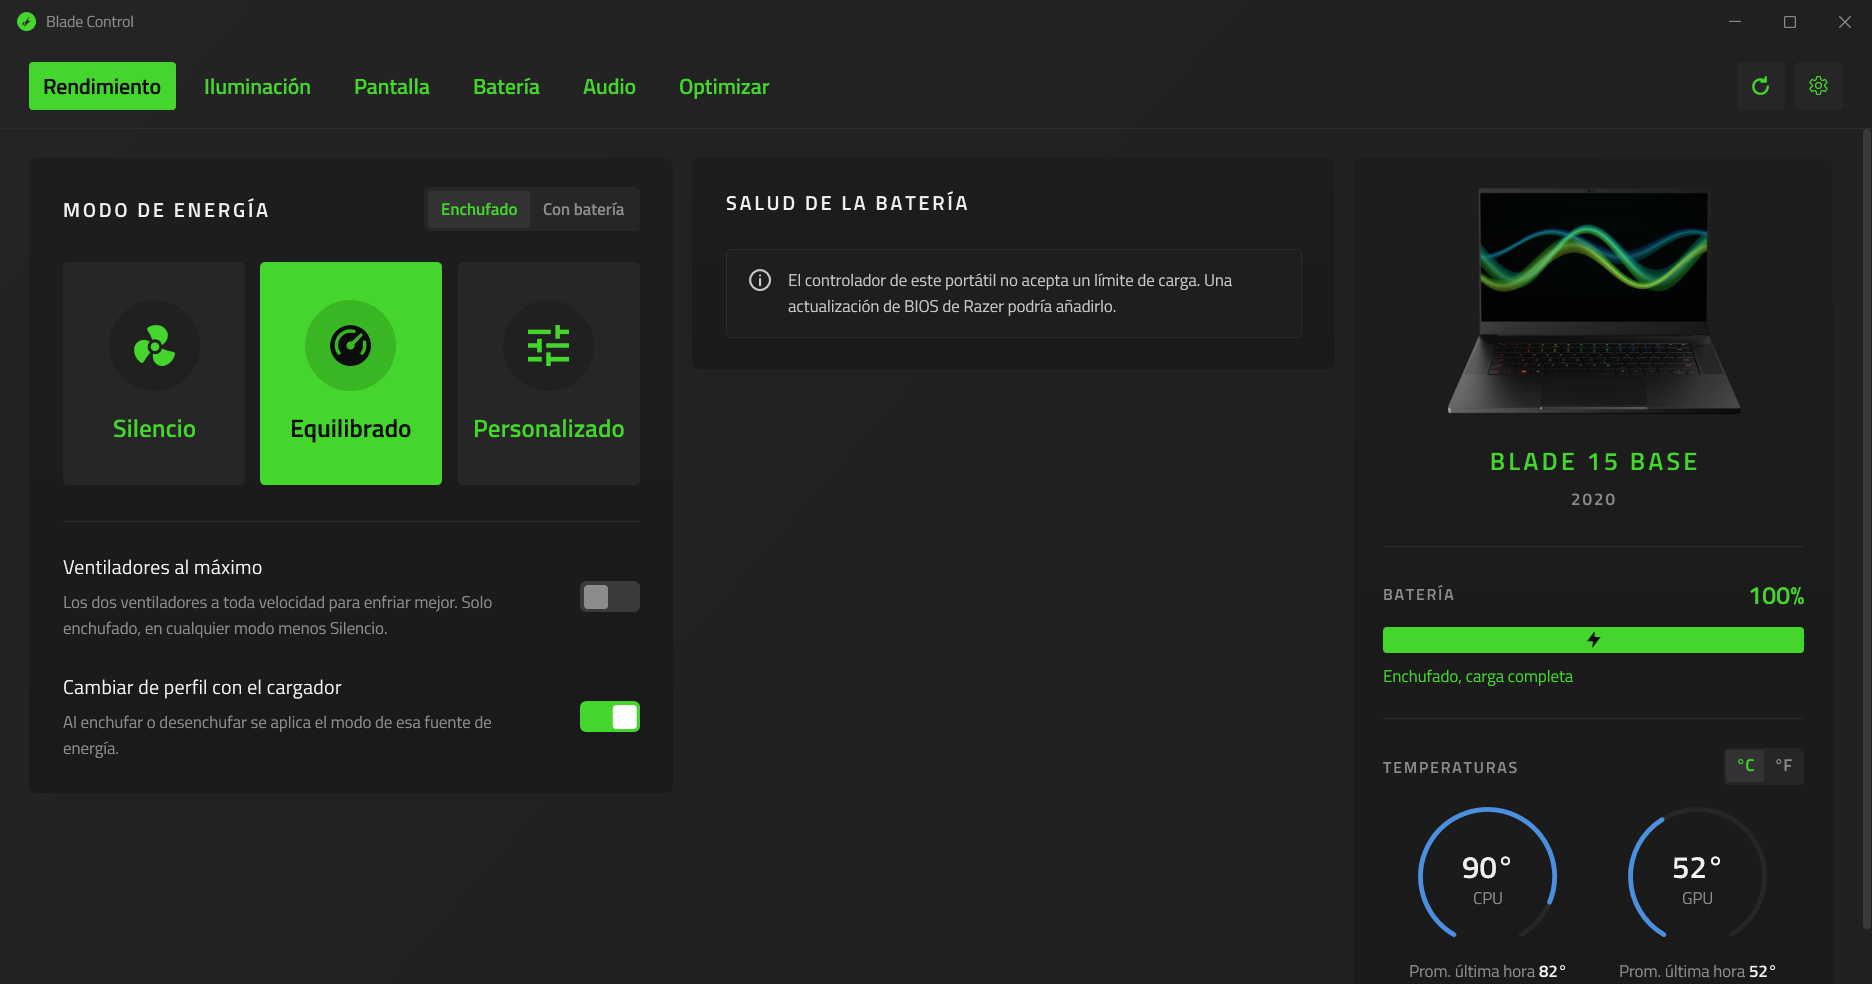
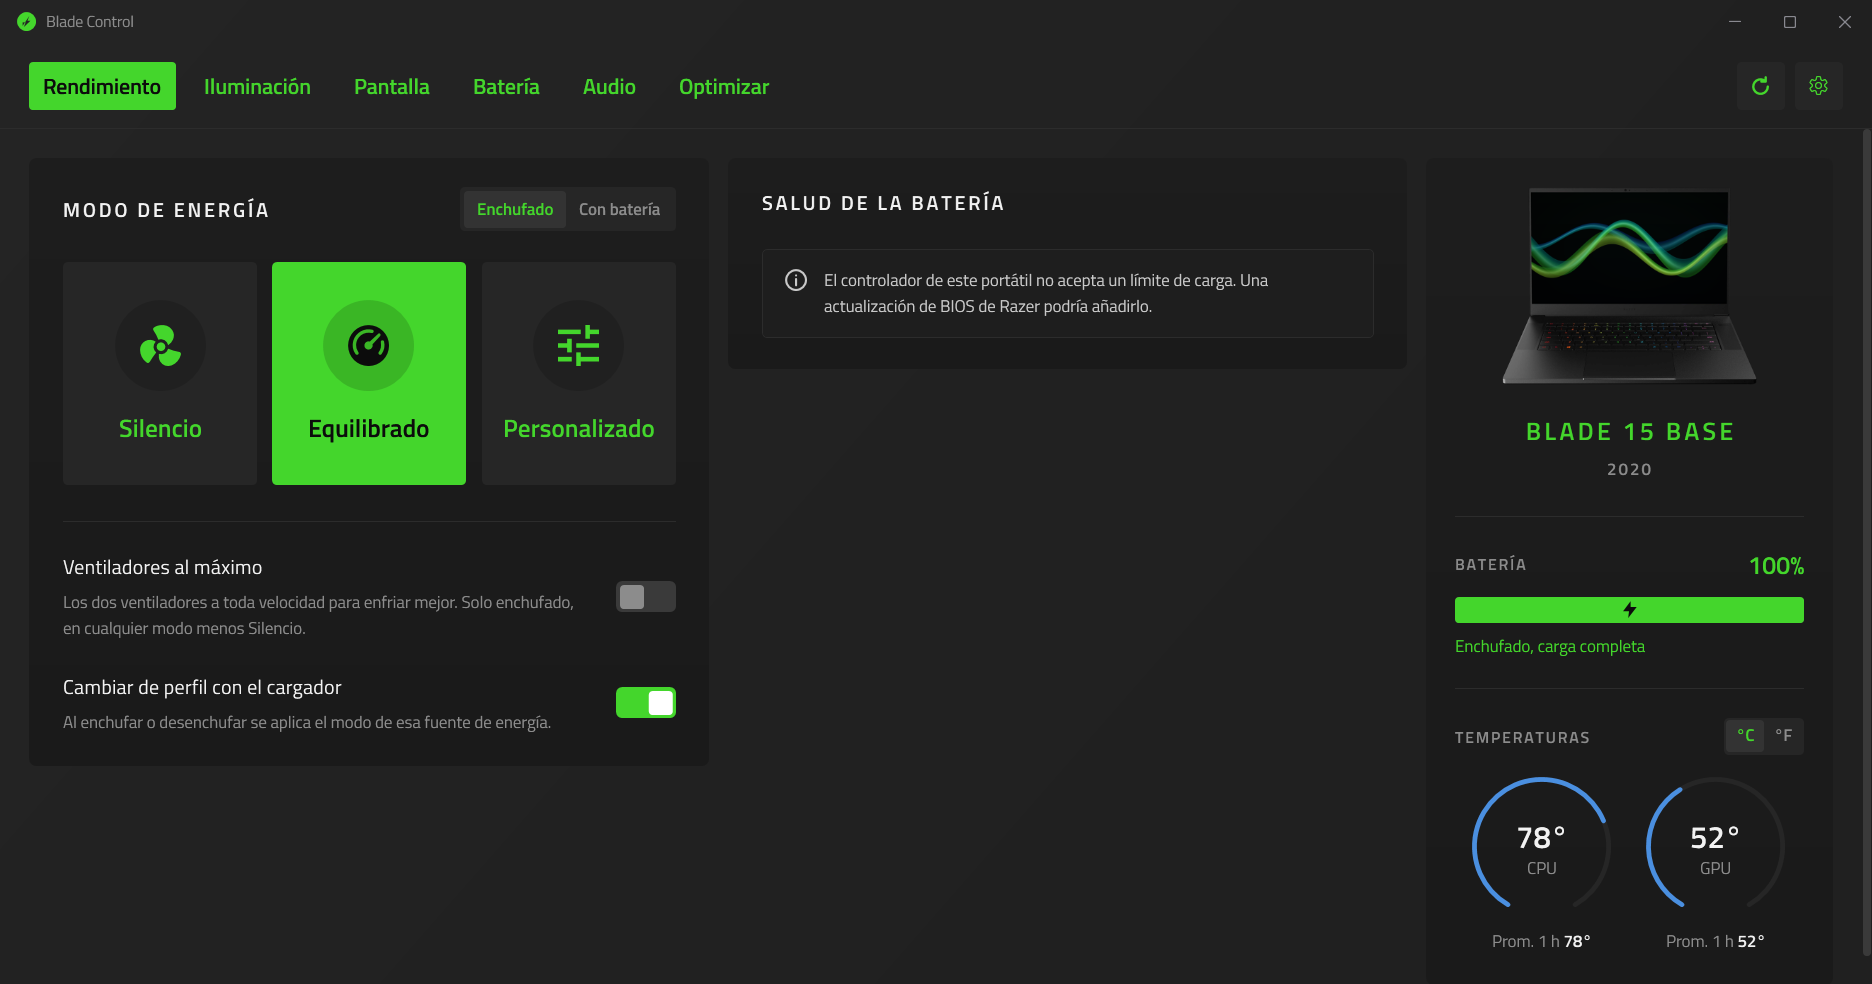
Narrows the laptop's panel from 400 to 340 px
The picture shrinks to match, and the Spanish average label becomes
"Prom. 1 h" so the two gauges' captions no longer run into each other.

diff --git a/src/BladeControl/Views/DevicePanel.xaml b/src/BladeControl/Views/DevicePanel.xaml
@@ -6,7 +6,7 @@
     <!-- The laptop: its picture and name, temperatures, fans and battery. -->
     <Border Style="{StaticResource Card}" Padding="24,24,24,26">
         <StackPanel>
-            <Image Source="{Binding Picture}" Height="190" Margin="0,0,0,22" RenderOptions.BitmapScalingMode="HighQuality"
+            <Image Source="{Binding Picture}" Height="165" Margin="0,0,0,22" RenderOptions.BitmapScalingMode="HighQuality"
                    Visibility="{Binding HasPicture, Converter={StaticResource Visible}}" />
 
             <TextBlock Text="{Binding ModelTitle}" HorizontalAlignment="Center" FontSize="21" FontWeight="SemiBold"

diff --git a/src/BladeControl/Views/MainWindow.xaml b/src/BladeControl/Views/MainWindow.xaml
@@ -98,7 +98,7 @@
                 <Grid.ColumnDefinitions>
                     <ColumnDefinition Width="*" />
                     <ColumnDefinition Width="16" />
-                    <ColumnDefinition Width="400" />
+                    <ColumnDefinition Width="340" />
                 </Grid.ColumnDefinitions>
 
                 <views:PerformanceView DataContext="{Binding Performance}"

diff --git a/src/BladeControl.Core/Localization/L.cs b/src/BladeControl.Core/Localization/L.cs
@@ -451,7 +451,7 @@ internal static class L
         ["Not detected"] = "No detectado",
         ["Plugged in, fully charged"] = "Enchufado, carga completa",
         ["Temperatures"] = "Temperaturas",
-        ["Last 1 h avg."] = "Prom. última hora",
+        ["Last 1 h avg."] = "Prom. 1 h",
         ["Fans"] = "Ventiladores",
     };
 }
